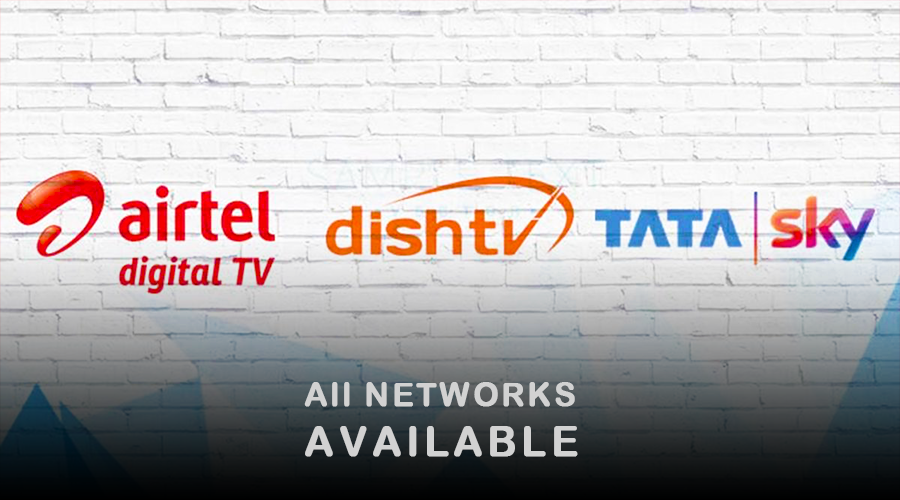
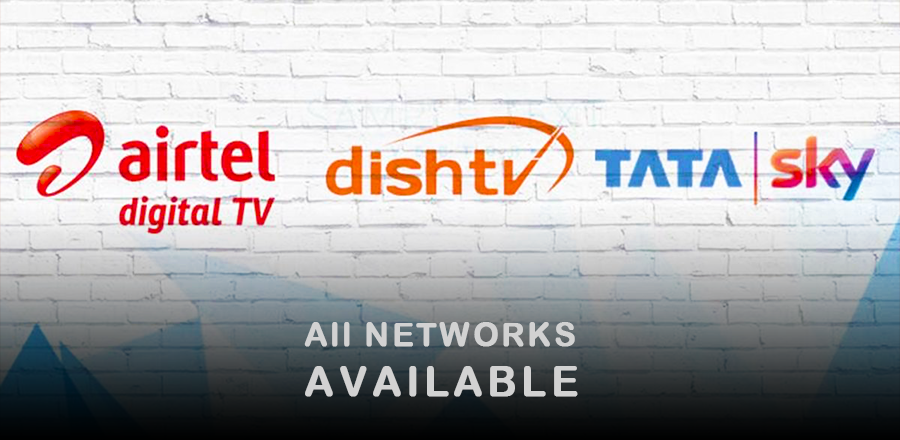
carousal-fix

diff --git a/src/app/carousal/carousal.component.scss b/src/app/carousal/carousal.component.scss
@@ -6,25 +6,37 @@
   align-items: center;
 
   .carousal-track {
-    width: 95%;
+    height: 430px;
+    width: 85% !important;
     margin: 30px;
     display: flex;
     align-items: center;
 
     .left {
-      transform: translateX(30px);
+      transform: translateX(30px) !important;
     }
     .right {
-      transform: translateX(-30px);
+      transform: translateX(-30px) !important;
     }
 
     .icon {
       cursor: pointer;
+      color: black;
+      box-shadow: 2px 2px 5px grey;
+      border-radius: 10%;
+      background-color: white;
+      vertical-align: middle;
+      // transform: translate(-30px, 2px) !important;
+    }
+
+    mat-icon {
+      transform: translateY(2px) !important;
     }
 
     img {
       display: block;
       margin: auto;
+      height: 100%;
       width: 100%;
       border-radius: 20px;
     }

diff --git a/src/app/carousal/carousal.component.ts b/src/app/carousal/carousal.component.ts
@@ -55,7 +55,7 @@ export class CarousalComponent implements OnInit {
   }
 
   leave() {
-    this.interval = setInterval(this.move, 2000);
+    this.interval = setInterval(this.move, 1500);
   }
 
   ngOnInit(): void {

diff --git a/src/styles.scss b/src/styles.scss
@@ -31,3 +31,7 @@ h6 {
 .mat-form-field-prefix {
   top: 9px !important;
 }
+
+.mat-input-element {
+  transform: translate(2px, 2px) !important;
+}
